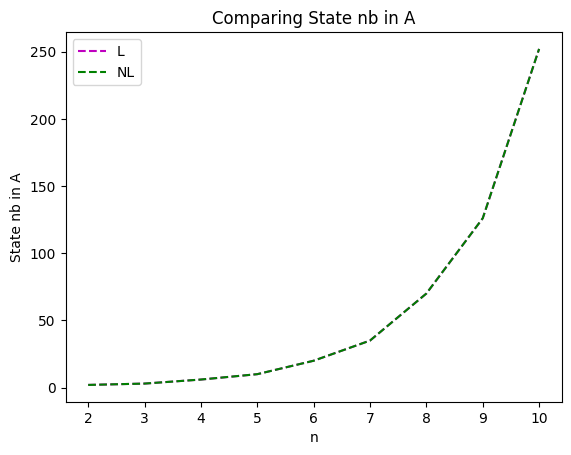
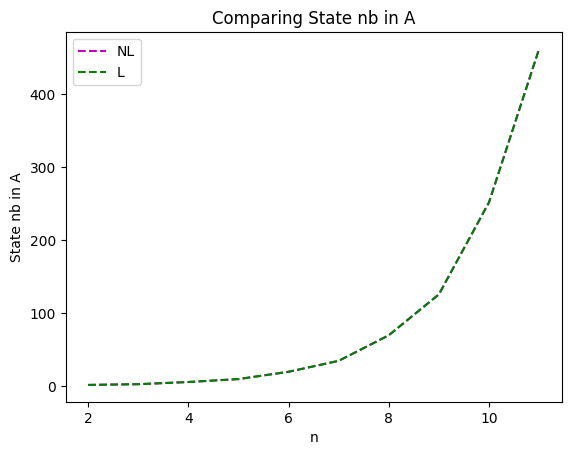
Little updates

diff --git a/dist/learners/LearnerBase.js b/dist/learners/LearnerBase.js
@@ -1,2 +1,2 @@
-import{boolToString,generate_prefix_list,generate_suffix_list}from"../tools/Utilities.js";export class LearnerBase{finish=false;constructor(teacher){this.alphabet=Array.from(teacher.alphabet);this.teacher=teacher;this.member_number=0;this.equiv_number=0;this.closedness_counter=0;this.consistence_counter=0;this.E=[""];this.S=[""];this.SA=Array.from(this.alphabet);this.observation_table={};this.add_row("");this.SA.forEach(elt=>this.add_row(elt))}update_observation_table(key,value){let old_value=this.observation_table[key];if(old_value!=undefined)value=old_value+value;this.observation_table[key]=value}make_member(pref,suff){let word=pref+suff;let answer;for(let i=0;i<word.length+1;i++){let pref1=word.substring(0,i);let suff1=word.substring(i);if(pref1==pref)continue;if(this.E.includes(suff1)){if((this.S.includes(pref1)||this.SA.includes(pref1))&&this.observation_table[pref1]){answer=this.observation_table[pref1].charAt(this.E.indexOf(suff1));this.update_observation_table(pref,answer);if(answer==undefined)throw"Parameter is not a number!";return}}}answer=this.teacher.member(word);this.update_observation_table(pref,answer);this.member_number++}make_equiv(a){let answer=this.teacher.equiv(a);this.equiv_number++;return answer}add_elt_in_S(new_elt,after_member=false){let added_list=[];let prefix_list=generate_prefix_list(new_elt);for(const prefix of prefix_list){if(this.S.includes(prefix))return;if(this.SA.includes(prefix)){this.move_from_SA_to_S(prefix);this.alphabet.forEach(a=>{const new_word=prefix+a;if(!this.SA.includes(new_word)&&!this.S.includes(new_word)){this.add_row(new_word,after_member);this.SA.push(new_word);added_list.push(new_word)}})}else{this.S.push(prefix);this.add_row(prefix,after_member);added_list.push(prefix);this.alphabet.forEach(a=>{let new_word=prefix+a;if(!this.SA.includes(new_word)&&!this.S.includes(new_word)){this.SA.push(prefix+a);this.add_row(prefix+a);added_list.push(prefix+a)}})}after_member=false}return}add_elt_in_E(new_elt,after_equiv=false){let suffix_list=generate_suffix_list(new_elt);for(const suffix of suffix_list){if(this.E.includes(suffix))break;this.SA.forEach(s=>{if(s+suffix==new_elt&&after_equiv)this.update_observation_table(s,boolToString(!this.automaton.accept_word(new_elt)));else this.make_member(s,suffix)});this.S.forEach(s=>{if(s+suffix==new_elt&&after_equiv)this.update_observation_table(s,boolToString(!this.automaton.accept_word(new_elt)));else this.make_member(s,suffix)});this.E.push(suffix)}}add_row(row_name,after_member=false){this.E.forEach(e=>{if(after_member&&e=="")this.observation_table[row_name]=boolToString(!this.automaton.accept_word_nfa(row_name));else this.make_member(row_name,e)})}move_from_SA_to_S(elt){const index=this.SA.indexOf(elt);if(index!=-1)this.SA.splice(index,1);this.S.push(elt)}make_next_query(){if(this.finish)return;var close_rep;var consistence_rep;if(close_rep=this.is_close()){this.add_elt_in_S(close_rep)}else if(consistence_rep=this.is_consistent()){let new_col=consistence_rep[2];this.add_elt_in_E(new_col)}else{let automaton=this.make_automaton();this.automaton=automaton;let answer=this.make_equiv(automaton);if(answer!=undefined){this.table_to_update_after_equiv(answer,false);this.automaton=undefined}else{this.finish=true}}}make_all_queries(){while(!this.finish){this.make_next_query()}}get_member_number(){return this.member_number}get_equiv_number(){return this.equiv_number}get_consistente_counter(){return this.consistence_counter}get_closedness_counter(){return this.closedness_counter}get_state_number(){return this.automaton.state_number()}get_transition_number(){return this.automaton.transition_number()}same_row(a,b){return this.observation_table[a]==this.observation_table[b]}}
+import{boolToString,generate_prefix_list,generate_suffix_list}from"../tools/Utilities.js";export class LearnerBase{finish=false;constructor(teacher){this.alphabet=Array.from(teacher.alphabet);this.teacher=teacher;this.member_number=0;this.equiv_number=0;this.closedness_counter=0;this.consistence_counter=0;this.E=[""];this.S=[""];this.SA=Array.from(this.alphabet);this.observation_table={};this.add_row("");this.SA.forEach(elt=>this.add_row(elt))}update_observation_table(key,value){let old_value=this.observation_table[key];if(old_value!=undefined)value=old_value+value;this.observation_table[key]=value}make_member(pref,suff){let word=pref+suff;let answer;for(let i=0;i<word.length+1;i++){let pref1=word.substring(0,i);let suff1=word.substring(i);if(pref1==pref)continue;if(this.E.includes(suff1)){if((this.S.includes(pref1)||this.SA.includes(pref1))&&this.observation_table[pref1]){answer=this.observation_table[pref1].charAt(this.E.indexOf(suff1));this.update_observation_table(pref,answer);if(answer==undefined)throw"Parameter is not a number!";return}}}answer=this.teacher.member(word);this.update_observation_table(pref,answer);this.member_number++}make_equiv(a){let answer=this.teacher.equiv(a);this.equiv_number++;return answer}add_elt_in_S(new_elt,after_member=false){let added_list=[];let prefix_list=generate_prefix_list(new_elt);for(const prefix of prefix_list){if(this.S.includes(prefix))return;if(this.SA.includes(prefix)){this.move_from_SA_to_S(prefix);this.alphabet.forEach(a=>{const new_word=prefix+a;if(!this.SA.includes(new_word)&&!this.S.includes(new_word)){this.add_row(new_word,after_member);this.SA.push(new_word);added_list.push(new_word)}})}else{this.S.push(prefix);this.add_row(prefix,after_member);added_list.push(prefix);this.alphabet.forEach(a=>{let new_word=prefix+a;if(!this.SA.includes(new_word)&&!this.S.includes(new_word)){this.SA.push(prefix+a);this.add_row(prefix+a);added_list.push(prefix+a)}})}after_member=false}return}add_elt_in_E(new_elt,after_equiv=false){let suffix_list=generate_suffix_list(new_elt);for(const suffix of suffix_list){if(this.E.includes(suffix))break;this.SA.forEach(s=>{if(s+suffix==new_elt&&after_equiv)this.update_observation_table(s,boolToString(!this.automaton.accept_word(new_elt)));else this.make_member(s,suffix)});this.S.forEach(s=>{if(s+suffix==new_elt&&after_equiv)this.update_observation_table(s,boolToString(!this.automaton.accept_word(new_elt)));else this.make_member(s,suffix)});this.E.push(suffix)}}add_row(row_name,after_member=false){this.E.forEach(e=>{if(after_member&&e=="")this.observation_table[row_name]=boolToString(!this.automaton.accept_word_nfa(row_name));else this.make_member(row_name,e)})}move_from_SA_to_S(elt){const index=this.SA.indexOf(elt);if(index!=-1)this.SA.splice(index,1);this.S.push(elt)}make_next_query(){if(this.finish)return;var close_rep;var consistence_rep;if(close_rep=this.is_close()){this.add_elt_in_S(close_rep)}else if(consistence_rep=this.is_consistent()){let new_col=consistence_rep[2];this.add_elt_in_E(new_col)}else{let automaton=this.make_automaton();this.automaton=automaton;let answer=this.make_equiv(automaton);if(answer!=undefined){this.table_to_update_after_equiv(answer,false);this.automaton=undefined}else{this.finish=true}}}make_all_queries(){while(!this.finish){this.make_next_query()}}get_member_number(){return this.member_number}get_equiv_number(){return this.equiv_number}get_consistent_counter(){return this.consistence_counter}get_closedness_counter(){return this.closedness_counter}get_state_number(){return this.automaton.state_number()}get_transition_number(){return this.automaton.transition_number()}same_row(a,b){return this.observation_table[a]==this.observation_table[b]}}
 //# sourceMappingURL=LearnerBase.js.map

diff --git a/dist/test_nodejs/Test_wrost_RFSA.js b/dist/test_nodejs/Test_wrost_RFSA.js
@@ -1,2 +1,2 @@
-import{clearFile,csvHead,printCsvCompare,writeToFile}from"./PrintFunction.js";import{L_star}from"../learners/L_star.js";import{NL_star}from"../learners/NL_star.js";import{TeacherAutomaton}from"../teacher/TeacherAutomaton.js";import{Automaton,State}from"../automaton/Automaton.js";import{minimizeAutomaton,MyAutomatonToHis}from"../automaton/automaton_type.js";import{allStringFromAlphabet,myLog}from"../tools/Utilities.js";let toWrite=true;let fileName="wrostRFSA";if(toWrite){clearFile(fileName);writeToFile(fileName,csvHead)}let automatonList=[];let counter_examples=allStringFromAlphabet({alphabet:"ab",maxLength:14});const N=2,maxN=11;for(let n=N;n<maxN;n++){myLog({a:["Creating test with",n,"power"]});let states=new Array(n).fill(0).map((_,i)=>new State(i+"",i==0,i<n/2,["a","b"]));for(let i=0;i<n-1;i++)states[i].addTransition("a",states[i+1]);states[n-1].addTransition("a",states[0]);states[0].addTransition("b",states[0]);for(let i=2;i<n;i++)states[i].addTransition("b",states[i-1]);states[1].addTransition("b",states[n-1]);automatonList.push(minimizeAutomaton(MyAutomatonToHis(new Automaton(new Set(states)))))}let printInfo=(algo,algoName)=>{return`${algoName} : queries = ${algo.member_number}, equiv = ${algo.equiv_number}, states = ${algo.automaton?.state_number()}, transitions = ${algo.automaton?.transition_number()}`};for(let i=0;i<automatonList.length;i++){let automaton=automatonList[i];let teacher=new TeacherAutomaton({automaton:automaton,description:N+i+"",counter_examples:counter_examples});let L=new L_star(teacher);let NL=new NL_star(teacher);myLog({a:["=".repeat(100)]});myLog({a:["Current n : ",N+i]});myLog({a:["In L*"]});L.make_all_queries();myLog({a:[printInfo(L,"L*")]});myLog({a:["In NL*"]});NL.make_all_queries();myLog({a:[printInfo(NL,"NL*")]});if(toWrite)writeToFile(fileName,printCsvCompare(L,NL))}
+import{clearFile,csvHead,printCsvCompare,printInfo,writeToFile}from"./PrintFunction.js";import{L_star}from"../learners/L_star.js";import{NL_star}from"../learners/NL_star.js";import{TeacherAutomaton}from"../teacher/TeacherAutomaton.js";import{Automaton,State}from"../automaton/Automaton.js";import{minimizeAutomaton,MyAutomatonToHis}from"../automaton/automaton_type.js";import{allStringFromAlphabet,myLog}from"../tools/Utilities.js";let toWrite=true;let automatonList=[];let counter_examples=allStringFromAlphabet({alphabet:"ab",maxLength:14});const N=12,maxN=13;for(let n=N;n<maxN;n++){myLog({a:["Creating test with",n,"power"]});let states=new Array(n).fill(0).map((_,i)=>new State(i+"",i==0,i<n/2,["a","b"]));for(let i=0;i<n-1;i++)states[i].addTransition("a",states[i+1]);states[n-1].addTransition("a",states[0]);states[0].addTransition("b",states[0]);for(let i=2;i<n;i++)states[i].addTransition("b",states[i-1]);states[1].addTransition("b",states[n-1]);automatonList.push(minimizeAutomaton(MyAutomatonToHis(new Automaton(new Set(states)))));console.log(n,automatonList[automatonList.length-1].allStates.length)}let fileName="wrostRFSA";if(toWrite){clearFile(fileName);writeToFile(fileName,csvHead)}for(let i=0;i<automatonList.length;i++){let automaton=automatonList[i];let teacher=new TeacherAutomaton({automaton:automaton,description:N+i+"",counter_examples:counter_examples});let L=new L_star(teacher);let NL=new NL_star(teacher);myLog({a:["=".repeat(100)],toLog:true});myLog({a:["Current n : ",N+i],toLog:true});myLog({a:["In L*"],toLog:true});L.make_all_queries();myLog({a:[printInfo(L,"L*")],toLog:true});myLog({a:["In NL*"],toLog:true});NL.make_all_queries();myLog({a:[printInfo(NL,"NL*")],toLog:true});if(toWrite)writeToFile(fileName,printCsvCompare(L,NL))}
 //# sourceMappingURL=Test_wrost_RFSA.js.map

diff --git a/dist/test_nodejs/PrintFunction.js b/dist/test_nodejs/PrintFunction.js
@@ -1,2 +1,2 @@
-import{LearnerBase}from"../learners/LearnerBase.js";import{strict}from"assert";import{appendFileSync,writeFileSync}from"fs";export let printInfo=(algo,algoName)=>{return`${algoName} : queries = ${algo.member_number}, equiv = ${algo.equiv_number}, states = ${algo.automaton?.state_number()}, transitions = ${algo.automaton?.transition_number()}, closedness pb = ${algo.closedness_counter}, consistence pb = ${algo.consistence_counter}`};export let printCsvCompare=(L,NL)=>{strict(L.teacher==NL.teacher);let printProperty=propery=>`${propery.call(L)},${propery.call(NL)}`;return`${L.teacher.regex}, ${L.teacher.alphabet.length}, ${L.teacher.description.split(",")[0]}, ${printProperty(LearnerBase.prototype.get_member_number)}, ${printProperty(LearnerBase.prototype.get_equiv_number)}, ${printProperty(LearnerBase.prototype.get_state_number)}, ${printProperty(LearnerBase.prototype.get_transition_number)}, ${printProperty(LearnerBase.prototype.get_closedness_counter)}, ${printProperty(LearnerBase.prototype.get_consistente_counter)}`};export let csvHead="Regex,Length alphabet,Description,L Membership queries,NL Membership queries,L Equivalence queries,NL Equivalence queries,L State nb in A,NL State nb in A,L Transition nb in A,NL Transition nb in A,L Closedness,NL Closedness,L Consistence,NL Consistence";let fileNameToCsv=fileName=>"./statistics/"+fileName+".csv";export let clearFile=fileName=>writeFileSync(fileNameToCsv(fileName),"");export let writeToFile=(fileName,content)=>{appendFileSync(fileNameToCsv(fileName),content+"\n")};
+import{LearnerBase}from"../learners/LearnerBase.js";import{strict}from"assert";import{appendFileSync,writeFileSync}from"fs";export let printInfo=(algo,algoName)=>{return`${algoName} : queries = ${algo.member_number}, equiv = ${algo.equiv_number}, states = ${algo.automaton?.state_number()}, transitions = ${algo.automaton?.transition_number()}, closedness pb = ${algo.closedness_counter}, consistence pb = ${algo.consistence_counter}`};export let printCsvCompare=(L,NL)=>{strict(L.teacher==NL.teacher);let printProperty=propery=>`${propery.call(L)},${propery.call(NL)}`;return`${L.teacher.regex}, ${L.teacher.alphabet.length}, ${L.teacher.description.split(",")[0]}, ${printProperty(LearnerBase.prototype.get_member_number)}, ${printProperty(LearnerBase.prototype.get_equiv_number)}, ${printProperty(LearnerBase.prototype.get_state_number)}, ${printProperty(LearnerBase.prototype.get_transition_number)}, ${printProperty(LearnerBase.prototype.get_closedness_counter)}, ${printProperty(LearnerBase.prototype.get_consistent_counter)}`};export let csvHead="Regex,Length alphabet,Description,L Membership queries,NL Membership queries,L Equivalence queries,NL Equivalence queries,L State nb in A,NL State nb in A,L Transition nb in A,NL Transition nb in A,L Closedness,NL Closedness,L Consistence,NL Consistence";let fileNameToCsv=fileName=>"./statistics/"+fileName+".csv";export let clearFile=fileName=>writeFileSync(fileNameToCsv(fileName),"");export let writeToFile=(fileName,content)=>{appendFileSync(fileNameToCsv(fileName),content+"\n")};
 //# sourceMappingURL=PrintFunction.js.map

diff --git a/src/test_nodejs/Test_wrost_RFSA.ts b/src/test_nodejs/Test_wrost_RFSA.ts
@@ -1,5 +1,5 @@
 import { LearnerBase } from "../learners/LearnerBase.js";
-import { clearFile, csvHead, printCsvCompare, writeToFile } from "./PrintFunction.js";
+import { clearFile, csvHead, printCsvCompare, printInfo, writeToFile } from "./PrintFunction.js";
 import { L_star } from "../learners/L_star.js";
 import { NL_star } from "../learners/NL_star.js";
 import { TeacherAutomaton } from "../teacher/TeacherAutomaton.js";
@@ -20,15 +20,9 @@ import { allStringFromAlphabet, myLog } from "../tools/Utilities.js";
 
 let toWrite = true
 
-let fileName = "wrostRFSA";
-if (toWrite) {
-  clearFile(fileName)
-  writeToFile(fileName, csvHead)
-}
-
 let automatonList: Automaton[] = []
 let counter_examples = allStringFromAlphabet({ alphabet: "ab", maxLength: 14 })
-const N = 2, maxN = 11;
+const N = 12, maxN = 13;
 for (let n = N; n < maxN; n++) {
   myLog({ a: ["Creating test with", n, "power"] });
 
@@ -42,12 +36,17 @@ for (let n = N; n < maxN; n++) {
     states[i].addTransition('b', states[i - 1])
   states[1].addTransition('b', states[n - 1])
   automatonList.push(minimizeAutomaton(MyAutomatonToHis(new Automaton(new Set(states)))));
+  console.log(n, automatonList[automatonList.length - 1].allStates.length);
+
 }
 
 
-let printInfo = (algo: LearnerBase, algoName: string) => {
-  return `${algoName} : queries = ${algo.member_number}, equiv = ${algo.equiv_number}, states = ${algo.automaton?.state_number()}, transitions = ${algo.automaton?.transition_number()}`;
+let fileName = "wrostRFSA";
+if (toWrite) {
+  clearFile(fileName)
+  writeToFile(fileName, csvHead)
 }
+
 
 for (let i = 0; i < automatonList.length; i++) {
   let automaton = automatonList[i]
@@ -60,16 +59,16 @@ for (let i = 0; i < automatonList.length; i++) {
   let L = new L_star(teacher)
   let NL = new NL_star(teacher)
 
-  myLog({ a: ["=".repeat(100)] });
-  myLog({ a: ["Current n : ", N + i] });
+  myLog({ a: ["=".repeat(100)], toLog: true });
+  myLog({ a: ["Current n : ", N + i], toLog: true });
 
-  myLog({ a: ["In L*"] });
+  myLog({ a: ["In L*"], toLog: true });
   L.make_all_queries();
-  myLog({ a: [printInfo(L, "L*")] });
+  myLog({ a: [printInfo(L, "L*")], toLog: true });
 
-  myLog({ a: ["In NL*"] });
+  myLog({ a: ["In NL*"], toLog: true });
   NL.make_all_queries();
-  myLog({ a: [printInfo(NL, "NL*")] });
+  myLog({ a: [printInfo(NL, "NL*")], toLog: true });
 
   if (toWrite) writeToFile(fileName, printCsvCompare(L, NL))
 }

diff --git a/dist/tools/Utilities.js b/dist/tools/Utilities.js
@@ -1,2 +1,2 @@
-export function same_vector(v1,v2){return v1.map((elt,pos)=>elt==v2[pos]).every(e=>e)}export const generate_prefix_list=str=>Array(str.length+1).fill(0).map((_,i)=>str.substring(0,i)).reverse();export const generate_suffix_list=str=>Array(str.length+1).fill("").map((_,i)=>str.substring(i,str.length+1));export const count_str_occurrences=(str,obj)=>Array.from(str).filter(f=>f==obj).length;export function boolToString(bool){return bool?"1":"0"}export function allStringFromAlphabet(params){let res=[""];let alphabet=Array.from(params.alphabet).sort();let level=[""];while(res[res.length-1].length<params.maxLength){let res1=[];level.forEach(e=>alphabet.forEach(a=>{res.push(e+a);res1.push(e+a)}));level=res1}return res}export let myLog=({a,toLog=false})=>{if(toLog)console.log(...a)};
+export function same_vector(v1,v2){return v1.map((elt,pos)=>elt==v2[pos]).every(e=>e)}export const generate_prefix_list=str=>Array(str.length+1).fill(0).map((_,i)=>str.substring(0,i)).reverse();export const generate_suffix_list=str=>Array(str.length+1).fill("").map((_,i)=>str.substring(i,str.length+1));export const count_str_occurrences=(str,obj)=>Array.from(str).filter(f=>f==obj).length;export function boolToString(bool){return bool?"1":"0"}export function allStringFromAlphabet(params){let res=[""];let alphabet=Array.from(params.alphabet).sort();let level=[""];while(res[res.length-1].length<params.maxLength){let res1=[];level.forEach(e=>alphabet.forEach(a=>{res.push(e+a);res1.push(e+a)}));level=res1}return res}export let myLog=({a,toLog=false})=>{if(true||toLog)console.log(...a)};
 //# sourceMappingURL=Utilities.js.map

diff --git a/src/test_nodejs/PrintFunction.ts b/src/test_nodejs/PrintFunction.ts
@@ -12,7 +12,7 @@ export let printInfo = (algo: LearnerBase, algoName: string) => {
 export let printCsvCompare = (L: L_star, NL: NL_star) => {
   strict(L.teacher == NL.teacher)
   let printProperty = (propery: () => number) => `${propery.call(L)},${propery.call(NL)}`
-  return `${L.teacher.regex}, ${L.teacher.alphabet.length}, ${L.teacher.description.split(",")[0]}, ${printProperty(LearnerBase.prototype.get_member_number)}, ${printProperty(LearnerBase.prototype.get_equiv_number)}, ${printProperty(LearnerBase.prototype.get_state_number)}, ${printProperty(LearnerBase.prototype.get_transition_number)}, ${printProperty(LearnerBase.prototype.get_closedness_counter)}, ${printProperty(LearnerBase.prototype.get_consistente_counter)}`;
+  return `${L.teacher.regex}, ${L.teacher.alphabet.length}, ${L.teacher.description.split(",")[0]}, ${printProperty(LearnerBase.prototype.get_member_number)}, ${printProperty(LearnerBase.prototype.get_equiv_number)}, ${printProperty(LearnerBase.prototype.get_state_number)}, ${printProperty(LearnerBase.prototype.get_transition_number)}, ${printProperty(LearnerBase.prototype.get_closedness_counter)}, ${printProperty(LearnerBase.prototype.get_consistent_counter)}`;
 }
 
 export let csvHead = "Regex,Length alphabet,Description,L Membership queries,NL Membership queries,L Equivalence queries,NL Equivalence queries,L State nb in A,NL State nb in A,L Transition nb in A,NL Transition nb in A,L Closedness,NL Closedness,L Consistence,NL Consistence"

diff --git a/src/tools/Utilities.ts b/src/tools/Utilities.ts
@@ -6,14 +6,14 @@ export function same_vector(v1: any[], v2: any[]): boolean {
 
 /**
  * creates all generate_prefix_list from the str passed in input :
- * exemple for hello : ['', 'h', 'he', 'hel', 'hell', 'hello']
+ * example for hello : ['', 'h', 'he', 'hel', 'hell', 'hello']
  */
 export const generate_prefix_list = (str: string) =>
   Array(str.length + 1).fill(0).map((_, i) => str.substring(0, i)).reverse();
 
 /**
  * creates all suffix from the str passed in input :
- * exemple for hello : ['hello', 'ello', 'llo', 'lo', 'o', '']
+ * example for hello : ['hello', 'ello', 'llo', 'lo', 'o', '']
  */
 export const generate_suffix_list = (str: string) =>
   Array(str.length + 1).fill("").map((_, i) => str.substring(i, str.length + 1));
@@ -41,5 +41,5 @@ export function allStringFromAlphabet(params: { alphabet: string[] | string, max
 }
 
 export let myLog = ({ a, toLog = false }: { a: any[], toLog?: boolean }) => {
-  if (toLog) console.log(...a);
+  if (true || toLog) console.log(...a);
 }

diff --git a/src/learners/LearnerBase.ts b/src/learners/LearnerBase.ts
@@ -71,9 +71,9 @@ export abstract class LearnerBase {
    * Takes in parameter an {@link Automaton} and ask 
    * to the teacher if the automaton knows the language.
    * If so : the Learner has learnt the language
-   * Else : it appends the counter-exemple to {@link S}
+   * Else : it appends the counter-example to {@link S}
    * @param a an Automaton
-   * @returns undefined if {@link a} recognize the teacher's language, a counter-exemple (as a string) otherwise.
+   * @returns undefined if {@link a} recognize the teacher's language, a counter-example (as a string) otherwise.
    */
   make_equiv(a: Automaton) {
     let answer = this.teacher.equiv(a);
@@ -204,7 +204,7 @@ export abstract class LearnerBase {
     return this.equiv_number;
   }
 
-  get_consistente_counter() {
+  get_consistent_counter() {
     return this.consistence_counter;
   }
 
